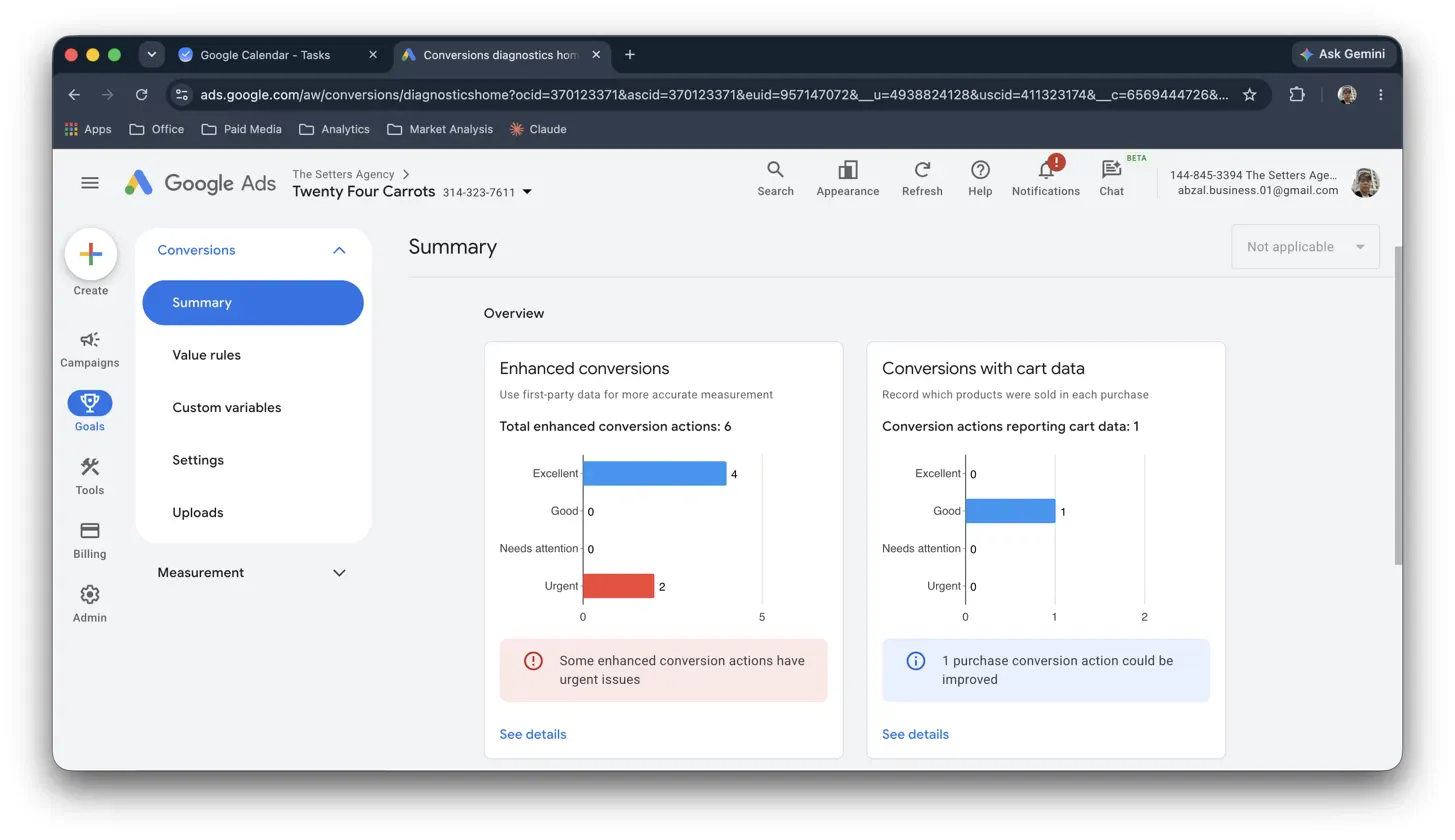
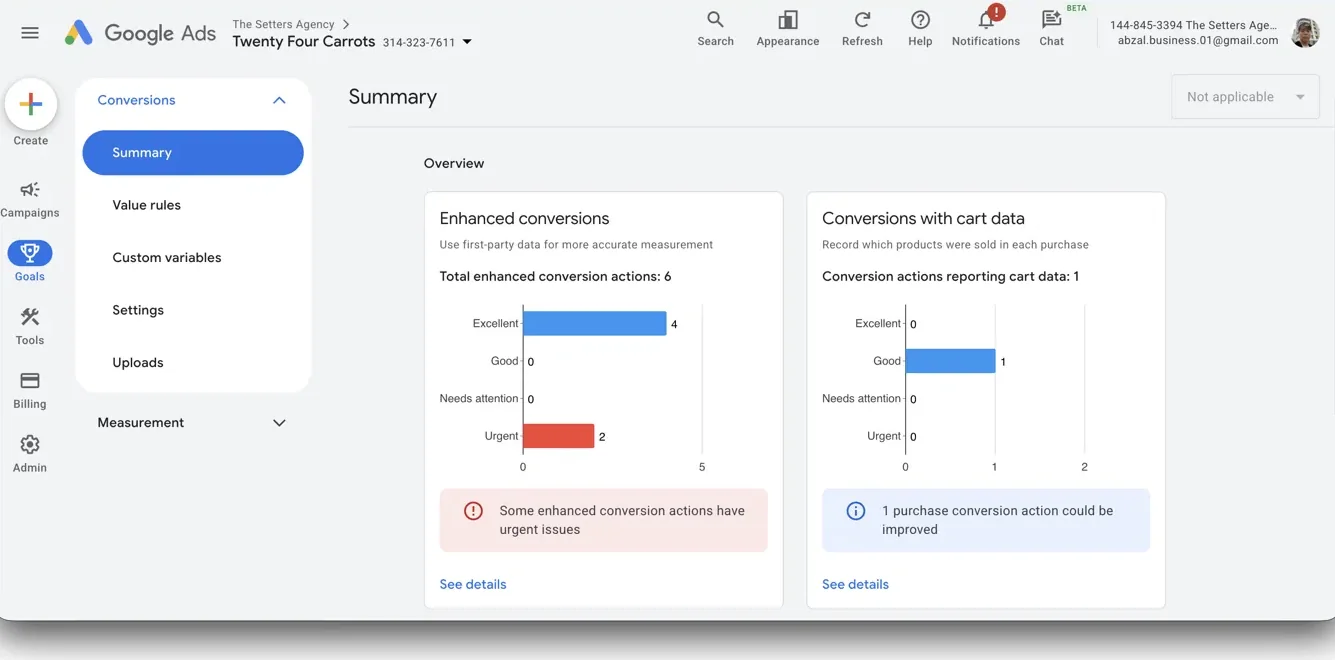
Centre the report modal and crop browser chrome from clinic screenshots
The global *{margin:0} reset was killing <dialog>'s default centering.
Clinic and ecommerce dashboards re-cropped so only the ad platform UI
shows, not tab bars, bookmarks or the debug banner.

Claude-Session: https://claude.ai/code/session_01Cy5DNdGErALeHraEho7PWM

diff --git a/index.html b/index.html
@@ -761,6 +761,7 @@
   .report-btn-icon{font-size:14px;line-height:1}
 
   .report-modal{
+    margin:auto;
     width:min(1080px,calc(100vw - 32px));
     max-height:calc(100vh - 48px);
     padding:0;
@@ -2003,7 +2004,7 @@
                       <span class="browser-dot"></span>
                       <span class="browser-url">meta ads · lead generation</span>
                     </div>
-                    <img class="browser-shot" src="assets/clinic-meta-leadgen.webp" width="1280" height="741" alt="Meta Ads Manager showing clinic lead generation campaigns at $22.70 and $30.21 per lead." loading="lazy" decoding="async">
+                    <img class="browser-shot" src="assets/clinic-meta-leadgen.webp" width="1176" height="543" alt="Meta Ads Manager showing clinic lead generation campaigns at $22.70 and $30.21 per lead." loading="lazy" decoding="async">
                   </figure>
                   <figure class="browser-frame frame-row">
                     <div class="browser-top" aria-hidden="true">
@@ -2030,7 +2031,7 @@
                       <span class="browser-dot"></span>
                       <span class="browser-url">google ads · conversion tracking</span>
                     </div>
-                    <img class="browser-shot" src="assets/ecom-google-conversions.webp" width="1455" height="840" alt="Google Ads conversion diagnostics showing enhanced conversions and cart data." loading="lazy" decoding="async">
+                    <img class="browser-shot" src="assets/ecom-google-conversions.webp" width="1335" height="660" alt="Google Ads conversion diagnostics showing enhanced conversions and cart data." loading="lazy" decoding="async">
                   </figure>
                 </div>
               </dialog>
